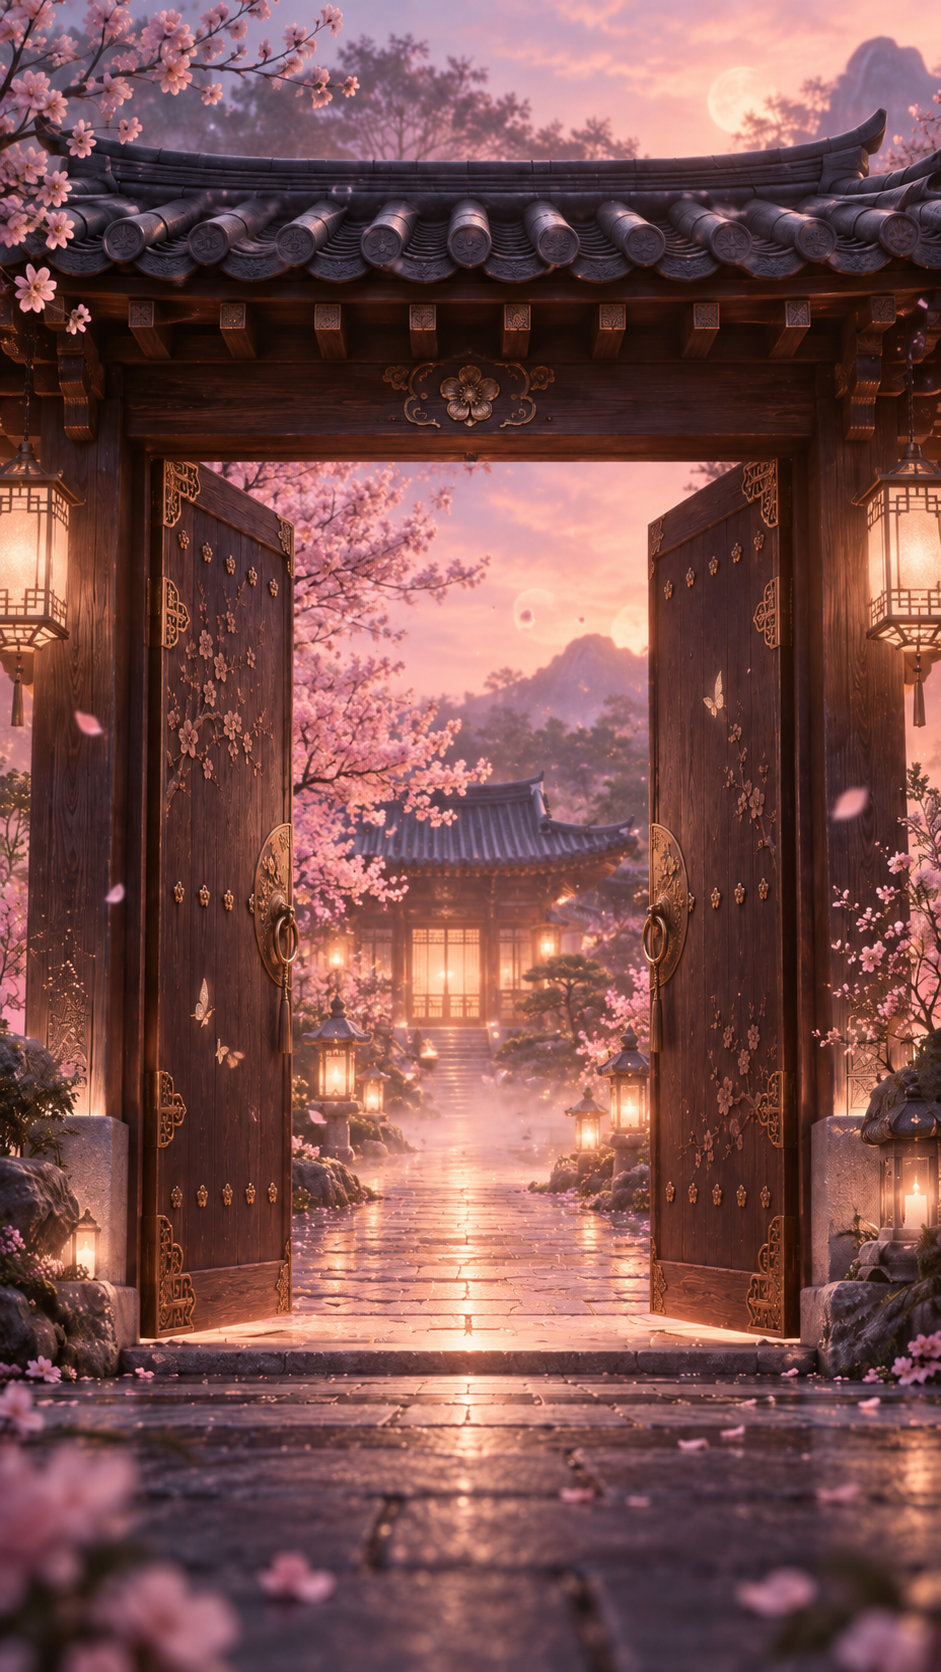
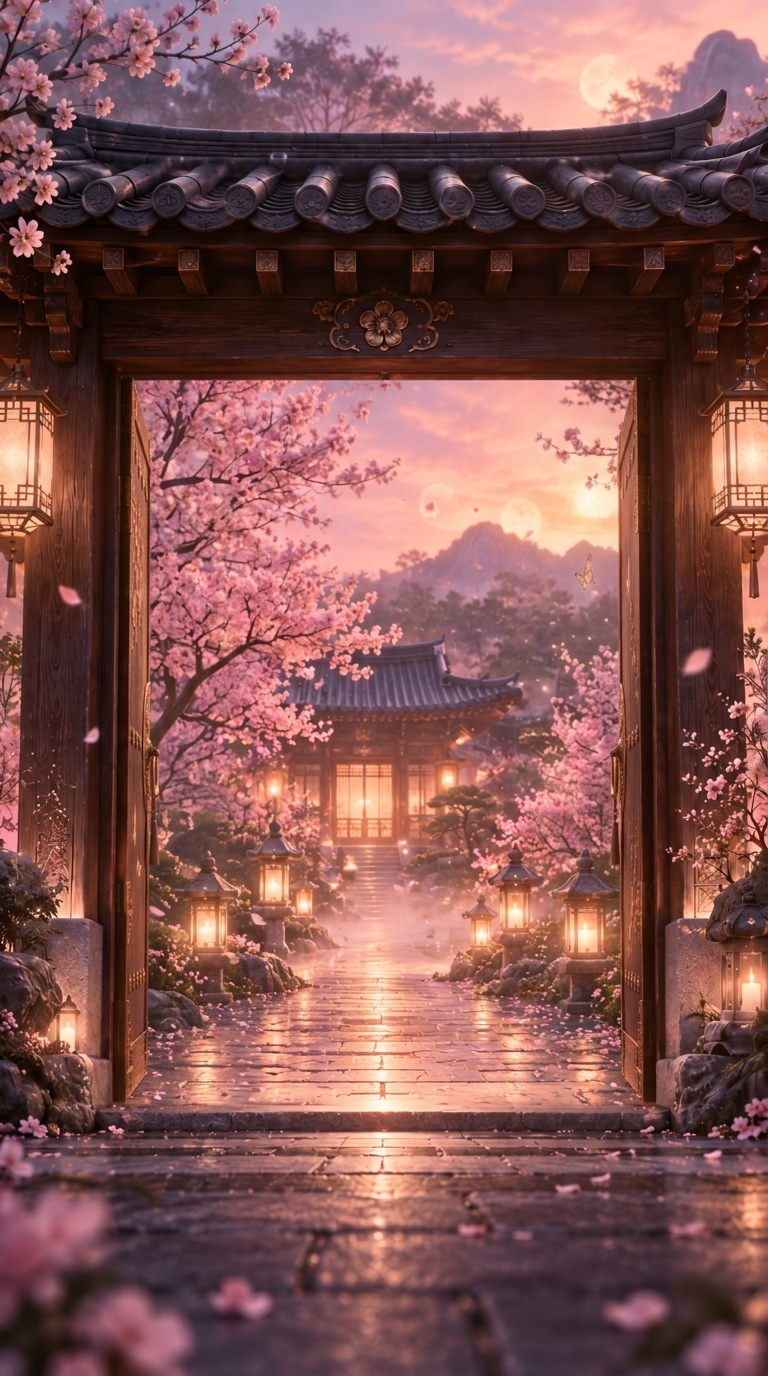
feat: 대문이 완전히 180도 활짝 열린 이미지로 교체 및 시네마틱 줌 연출 강화

diff --git a/components/MobileIntroDoor.tsx b/components/MobileIntroDoor.tsx
@@ -11,8 +11,8 @@ export default function MobileIntroDoor({ onComplete }: MobileIntroDoorProps) {
   const [shouldShow, setShouldShow] = useState<boolean>(false);
   // 애니메이션 진행 단계
   // 'idle': 대기(닫힌 문 + 입장 버튼)
-  // 'opening': 문 열림 + 중앙 황금빛 + 열린 문 줌인 연출 (약 1.35초)
-  // 'fadingOut': 인트로 오버레이 전체 페이드아웃 (약 0.4초)
+  // 'opening': 문 열림 + 중앙 황금빛 폭발 + 활짝 열린 문 줌인 연출 (약 1.45초)
+  // 'fadingOut': 인트로 오버레이 전체 부드러운 페이드아웃 (약 0.4초)
   // 'finished': 종료 후 완전 제거
   const [animationPhase, setAnimationPhase] = useState<'idle' | 'opening' | 'fadingOut' | 'finished'>('idle');
 
@@ -68,19 +68,19 @@ export default function MobileIntroDoor({ onComplete }: MobileIntroDoorProps) {
     // 2. 문 열림 및 안쪽으로 빨려 들어가는 시네마틱 연출 시작
     setAnimationPhase('opening');
 
-    // 3. 약 1.3초 후 전체 화면 부드러운 페이드아웃 시작
+    // 3. 약 1.45초 후 전체 화면 부드러운 페이드아웃 시작
     const timer1 = setTimeout(() => {
       setAnimationPhase('fadingOut');
-    }, 1300);
+    }, 1450);
 
-    // 4. 약 1.7초 후 인트로 완전 종료 및 본문 스크롤 복구
+    // 4. 약 1.85초 후 인트로 완전 종료 및 본문 스크롤 복구
     const timer2 = setTimeout(() => {
       setAnimationPhase('finished');
       setShouldShow(false);
       document.body.style.overflow = '';
       document.documentElement.style.overflow = '';
       if (onComplete) onComplete();
-    }, 1700);
+    }, 1850);
 
     return () => {
       clearTimeout(timer1);
@@ -125,13 +125,13 @@ export default function MobileIntroDoor({ onComplete }: MobileIntroDoorProps) {
             alt="백도화의 닫힌 문"
             className="w-full h-full object-cover"
             style={{
-              // 손잡이와 문 중앙선이 화면 정중앙에 시각적으로 정확히 오도록 세밀 조정
+              // 손잡이와 문 중앙선이 화면 정중앙에 오도록 정밀 배치
               objectPosition: 'center 46%',
             }}
           />
         </div>
 
-        {/* (2) 열린 문 레이어 (클릭 시 확대되며 문 안쪽으로 빨려 들어가는 연출) */}
+        {/* (2) 활짝 열린 문 레이어 (클릭 시 180도 활짝 열려 안쪽 정원으로 쑥 빨려 들어가는 연출) */}
         <div
           className={`absolute inset-0 w-full h-full transition-opacity duration-600 ease-out ${
             animationPhase === 'idle'
@@ -143,7 +143,7 @@ export default function MobileIntroDoor({ onComplete }: MobileIntroDoorProps) {
           {/* eslint-disable-next-line @next/next/no-img-element */}
           <img
             src={openDoorImg}
-            alt="백도화의 열린 문"
+            alt="백도화의 활짝 열린 문"
             className="w-full h-full object-cover"
             style={{
               objectPosition: 'center 46%',
@@ -170,7 +170,7 @@ export default function MobileIntroDoor({ onComplete }: MobileIntroDoorProps) {
         {/* (4) 문 안쪽에서 화면 전체로 퍼지는 따뜻한 황금빛 오버레이 (Golden Aura Bloom) */}
         <div
           className={`absolute inset-0 pointer-events-none transition-opacity duration-1000 ease-out ${
-            animationPhase === 'opening' ? 'opacity-80' : 'opacity-0'
+            animationPhase === 'opening' ? 'opacity-85' : 'opacity-0'
           }`}
           style={{
             background:
@@ -253,14 +253,19 @@ export default function MobileIntroDoor({ onComplete }: MobileIntroDoorProps) {
         @keyframes cameraZoomIn {
           0% {
             transform: scale(1);
+            filter: brightness(0.96);
+          }
+          35% {
+            filter: brightness(1.08);
           }
           100% {
-            transform: scale(1.12);
+            transform: scale(1.15);
+            filter: brightness(1.02);
           }
         }
 
         .intro-camera-zoom {
-          animation: cameraZoomIn 1.45s cubic-bezier(0.16, 1, 0.3, 1) forwards;
+          animation: cameraZoomIn 1.55s cubic-bezier(0.16, 1, 0.3, 1) forwards;
         }
 
         @media (prefers-reduced-motion: reduce) {
